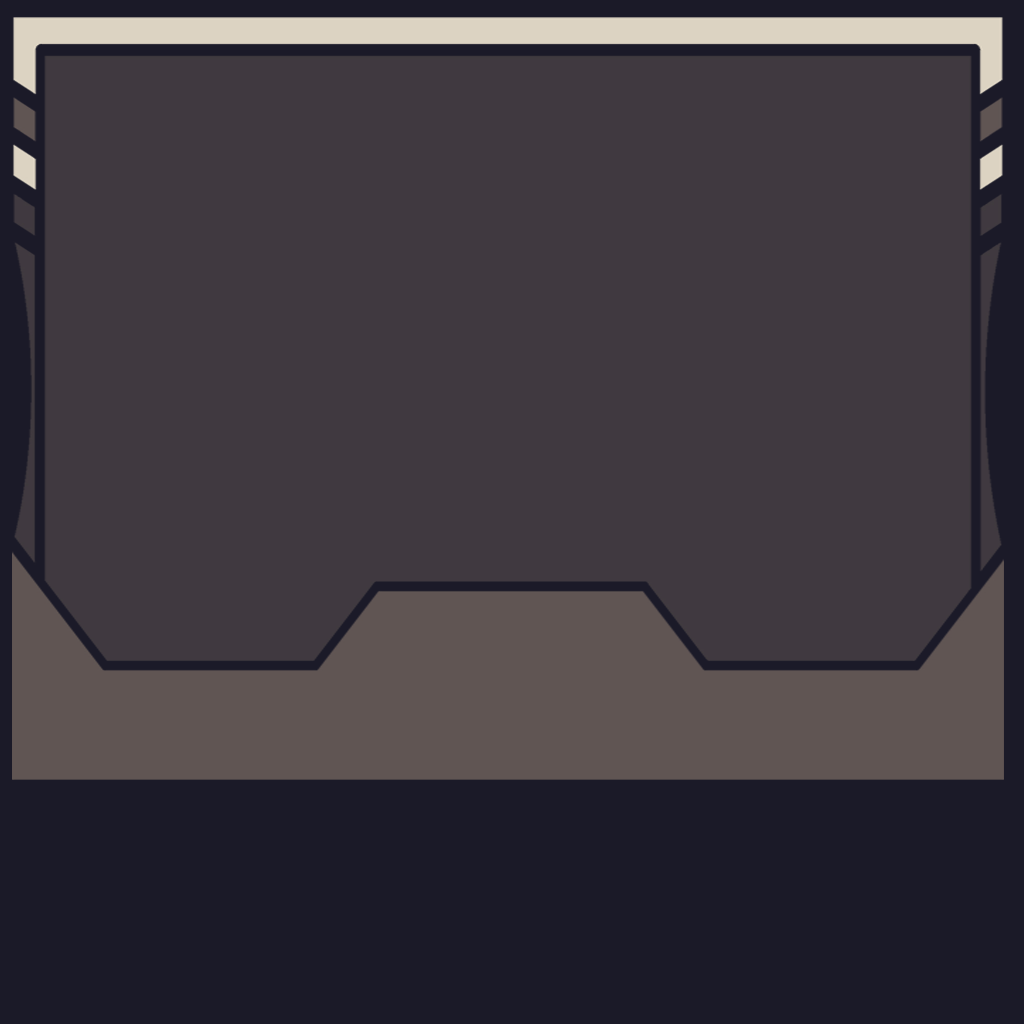
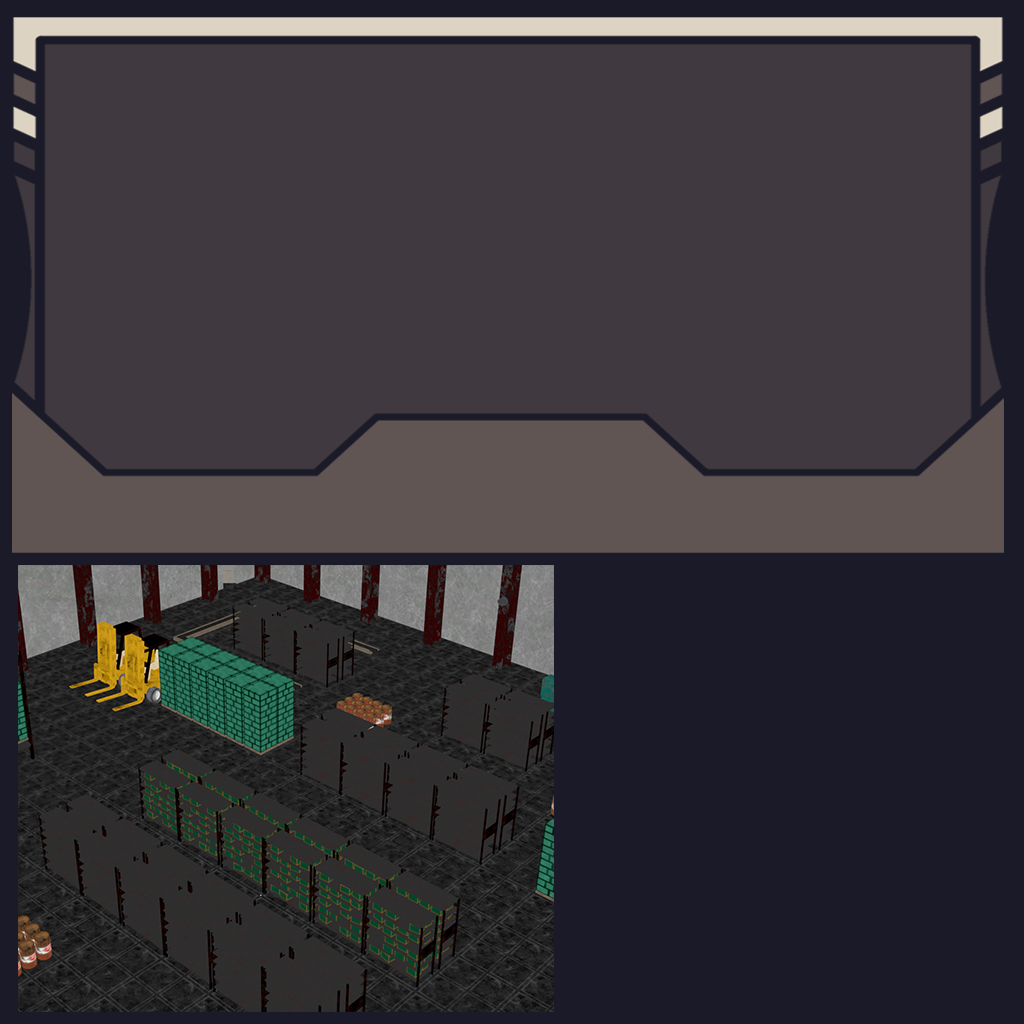
- UI 수정 및 잔 버그 위험 요소 일부 수정

diff --git a/AvoidTheBoss/UIManager.cpp b/AvoidTheBoss/UIManager.cpp
@@ -13,21 +13,21 @@
 
 #include <d2d1_1.h>
 #include <wincodec.h>
-
-const float MAX_RESCUE_GUAGE = FRAME_BUFFER_WIDTH / 4.0f;
-
-const float PROFILE_UI_OFFSET_X = FRAME_BUFFER_WIDTH * 0.01;
-const float PROFILE_UI_OFFSET_Y = FRAME_BUFFER_HEIGHT * 0.1;
-
-const float PROFILE_UI_WIDTH = FRAME_BUFFER_WIDTH * 0.1;
-const float PROFILE_UI_HEIGHT = FRAME_BUFFER_HEIGHT * 0.1;
-
-const float BIG_PROFILE_UI_OFFSET_Y = PROFILE_UI_OFFSET_Y * 7;
-const float BIG_PROFILE_UI_WIDTH = FRAME_BUFFER_WIDTH * 0.2;
-const float BIG_PROFILE_UI_HEIGHT = FRAME_BUFFER_HEIGHT * 0.2;
-
-const float STATUS_UI_WIDTH = PROFILE_UI_WIDTH * 0.8;
-const float STATUS_UI_HEIGHT = PROFILE_UI_HEIGHT * 0.8;
+//
+//const float MAX_RESCUE_GUAGE = FRAME_BUFFER_WIDTH / 4.0f;
+//
+//const float PROFILE_UI_OFFSET_X = FRAME_BUFFER_WIDTH * 0.01;
+//const float PROFILE_UI_OFFSET_Y = FRAME_BUFFER_HEIGHT * 0.1;
+//
+//const float PROFILE_UI_WIDTH = FRAME_BUFFER_WIDTH * 0.1;
+//const float PROFILE_UI_HEIGHT = FRAME_BUFFER_HEIGHT * 0.1;
+//
+//const float BIG_PROFILE_UI_OFFSET_Y = PROFILE_UI_OFFSET_Y * 7;
+//const float BIG_PROFILE_UI_WIDTH = FRAME_BUFFER_WIDTH * 0.2;
+//const float BIG_PROFILE_UI_HEIGHT = FRAME_BUFFER_HEIGHT * 0.2;
+//
+//const float STATUS_UI_WIDTH = PROFILE_UI_WIDTH * 0.8;
+//const float STATUS_UI_HEIGHT = PROFILE_UI_HEIGHT * 0.8;
 
 #pragma comment(lib,"windowscodecs.lib")
 
@@ -652,8 +652,8 @@ void UIManager::InitializeDevice(ID3D12Device5* pd3dDevice, ID3D12CommandQueue* 
 
     m_RoomButtons[0].resource = LoadPngFromFile(L"UI/Ready_Game.png");
     m_RoomButtons[1].resource = LoadPngFromFile(L"UI/Quit_Game.png");
-    m_RoomButtons[0].d2dLayoutRect = MakeLayoutRectByCorner(0,                        LOBBYBUTTON_Y_OFFSET, FRAME_BUFFER_WIDTH / 3.0f, FRAME_BUFFER_HEIGHT / 4.0);
-    m_RoomButtons[1].d2dLayoutRect = MakeLayoutRectByCorner(LOBBYBUTTON_X_OFFSET * 2.0f, LOBBYBUTTON_Y_OFFSET, FRAME_BUFFER_WIDTH / 3.0f, FRAME_BUFFER_HEIGHT / 4.0);
+    m_RoomButtons[0].d2dLayoutRect = MakeLayoutRectByCorner(GAMEROOM_BUTTON_X_OFFSET, GAMEROOM_BUTTON_Y_OFFSET, FRAME_BUFFER_WIDTH / 5.0f, FRAME_BUFFER_HEIGHT / 7.0);
+    m_RoomButtons[1].d2dLayoutRect = MakeLayoutRectByCorner(GAMEROOM_BUTTON_X_OFFSET + (FRAME_BUFFER_WIDTH / 5.0f), GAMEROOM_BUTTON_Y_OFFSET, FRAME_BUFFER_WIDTH / 5.0f, FRAME_BUFFER_HEIGHT / 7.0);
 
     m_ReadyBitmaps[0].resource = LoadPngFromFile(L"UI/Ready.png");
     m_ReadyBitmaps[1].resource = LoadPngFromFile(L"UI/Ready2.png");
@@ -665,25 +665,25 @@ void UIManager::InitializeDevice(ID3D12Device5* pd3dDevice, ID3D12CommandQueue* 
     m_ReadyCard[2].resource = LoadPngFromFile(L"UI/READY_CARD3.png");
     m_ReadyCard[3].resource = LoadPngFromFile(L"UI/READY_CARD4.png");
 
-    m_ReadyBitmaps[0].d2dLayoutRect = MakeLayoutRectByCorner(LOBBYROOMLIST_X_OFFSET, 
+    m_ReadyBitmaps[0].d2dLayoutRect = MakeLayoutRectByCorner(LOBBYROOMLIST_X_OFFSET,
         LOBBYROOMLIST_Y_OFFSET,
         (FRAME_BUFFER_WIDTH - (LOBBYROOMLIST_X_OFFSET * 2.0)) / 2.0,
-        FRAME_BUFFER_HEIGHT / 4.0);
-    m_ReadyBitmaps[1].d2dLayoutRect = MakeLayoutRectByCorner( LOBBYROOMLIST_X_OFFSET + ((FRAME_BUFFER_WIDTH - (LOBBYROOMLIST_X_OFFSET * 2.0)) / 2.0),
+        FRAME_BUFFER_HEIGHT / 6.0);
+    m_ReadyBitmaps[1].d2dLayoutRect = MakeLayoutRectByCorner(LOBBYROOMLIST_X_OFFSET + ((FRAME_BUFFER_WIDTH - (LOBBYROOMLIST_X_OFFSET * 2.0)) / 2.0),
         LOBBYROOMLIST_Y_OFFSET,
         (FRAME_BUFFER_WIDTH - (LOBBYROOMLIST_X_OFFSET * 2.0)) / 2.0,
-        FRAME_BUFFER_HEIGHT / 4.0);
-    
+        FRAME_BUFFER_HEIGHT / 6.0);
+
     m_ReadyBitmaps[2].d2dLayoutRect = MakeLayoutRectByCorner(LOBBYROOMLIST_X_OFFSET,
-        LOBBYROOMLIST_Y_OFFSET + FRAME_BUFFER_HEIGHT / 4.0,
+        LOBBYROOMLIST_Y_OFFSET + FRAME_BUFFER_HEIGHT / 6.0,
         (FRAME_BUFFER_WIDTH - (LOBBYROOMLIST_X_OFFSET * 2.0)) / 2.0,
-        FRAME_BUFFER_HEIGHT / 4.0);
+        FRAME_BUFFER_HEIGHT / 6.0);
 
     m_ReadyBitmaps[3].d2dLayoutRect = MakeLayoutRectByCorner(
         LOBBYROOMLIST_X_OFFSET + (FRAME_BUFFER_WIDTH - (LOBBYROOMLIST_X_OFFSET * 2.0)) / 2.0,
-        LOBBYROOMLIST_Y_OFFSET + FRAME_BUFFER_HEIGHT / 4.0,
+        LOBBYROOMLIST_Y_OFFSET + FRAME_BUFFER_HEIGHT / 6.0,
         (FRAME_BUFFER_WIDTH - (LOBBYROOMLIST_X_OFFSET * 2.0)) / 2.0,
-        FRAME_BUFFER_HEIGHT / 4.0f);
+        FRAME_BUFFER_HEIGHT / 6.0f);
 
     for (int i = 0; i < 4; ++i)
     {

diff --git a/CoreEngine/CorePch.h b/CoreEngine/CorePch.h
@@ -119,8 +119,26 @@ const float TITLEBUTTON_Y_OFFSET = FRAME_BUFFER_HEIGHT / 10;
 const float LOBBYBUTTON_X_OFFSET = FRAME_BUFFER_WIDTH / 3.0;
 const float LOBBYBUTTON_Y_OFFSET = FRAME_BUFFER_HEIGHT / 4.0f * 3;
 
-const float LOBBYROOMLIST_X_OFFSET = FRAME_BUFFER_WIDTH / 22;
-const float LOBBYROOMLIST_Y_OFFSET = FRAME_BUFFER_HEIGHT / 18.5;
+const float LOBBYROOMLIST_X_OFFSET = FRAME_BUFFER_WIDTH / 23;
+const float LOBBYROOMLIST_Y_OFFSET = FRAME_BUFFER_HEIGHT / 23;
+
+const float MAX_RESCUE_GUAGE = FRAME_BUFFER_WIDTH / 4.0f;
+
+const float PROFILE_UI_OFFSET_X = FRAME_BUFFER_WIDTH * 0.01;
+const float PROFILE_UI_OFFSET_Y = FRAME_BUFFER_HEIGHT * 0.1;
+
+const float PROFILE_UI_WIDTH = FRAME_BUFFER_WIDTH * 0.1;
+const float PROFILE_UI_HEIGHT = FRAME_BUFFER_HEIGHT * 0.1;
+
+const float BIG_PROFILE_UI_OFFSET_Y = PROFILE_UI_OFFSET_Y * 7;
+const float BIG_PROFILE_UI_WIDTH = FRAME_BUFFER_WIDTH * 0.2;
+const float BIG_PROFILE_UI_HEIGHT = FRAME_BUFFER_HEIGHT * 0.2;
+
+const float STATUS_UI_WIDTH = PROFILE_UI_WIDTH * 0.8;
+const float STATUS_UI_HEIGHT = PROFILE_UI_HEIGHT * 0.8;
+
+const float GAMEROOM_BUTTON_X_OFFSET = FRAME_BUFFER_WIDTH / 1.8f;
+const float GAMEROOM_BUTTON_Y_OFFSET = FRAME_BUFFER_HEIGHT / 1.2f;
 
 
 const float FontSize = 50;
@@ -135,7 +153,7 @@ const float IDPW_Y_OFFSET = FontSize / 2.0f;
 #define UNIT 1.0f // 1m = 1 unit
 
 #define PLAYERNUM 2
-#define GENCNT 3
+#define GENCNT 1
 const float EMPLOYEE_VELOCITY = UNIT * 3.f;
 const float BOSS_VELOCITY = UNIT * 2.f;
 

diff --git a/AvoidTheBoss/AvoidTheBoss.cpp b/AvoidTheBoss/AvoidTheBoss.cpp
@@ -145,8 +145,6 @@ BOOL InitInstance(HINSTANCE hInstance, int nCmdShow)
 
     //----프레임워크 객체 초기화
     mainGame.OnCreate(hInst, hMainWnd);
-   
-
     ShowWindow(hMainWnd, nCmdShow);
     UpdateWindow(hMainWnd);
 

diff --git a/AvoidTheBoss/pch.h b/AvoidTheBoss/pch.h
@@ -10,7 +10,7 @@
 
 #ifdef _DEBUG
 #pragma comment(lib, "Debug\\CoreEngine.lib")
-
+#pragma comment(linker, "/entry:wWinMainCRTStartup /subsystem:console")
 #else
 #pragma comment(lib, "Release\\CoreEngine.lib")
 #endif

diff --git a/AvoidTheBoss/SceneManager.cpp b/AvoidTheBoss/SceneManager.cpp
@@ -17,7 +17,7 @@ void SceneManager::Update(HWND& hWnd,int32 idx)
 
 void SceneManager::ProcessInput(HWND& hWnd, int32 idx)
 {
-	if (hWnd != ::GetActiveWindow()) return;
+	
 	m_pScenes[idx]->ProcessInput(hWnd);
 }
 
